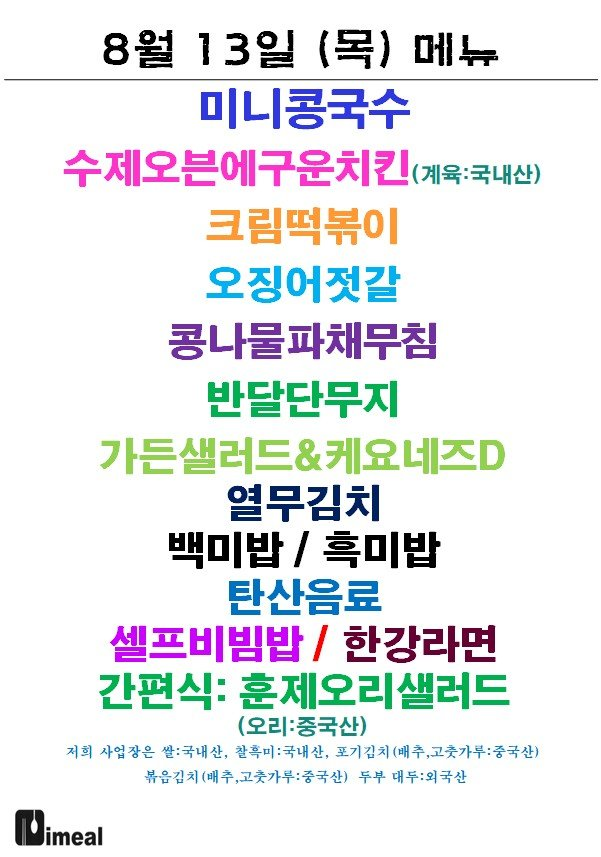
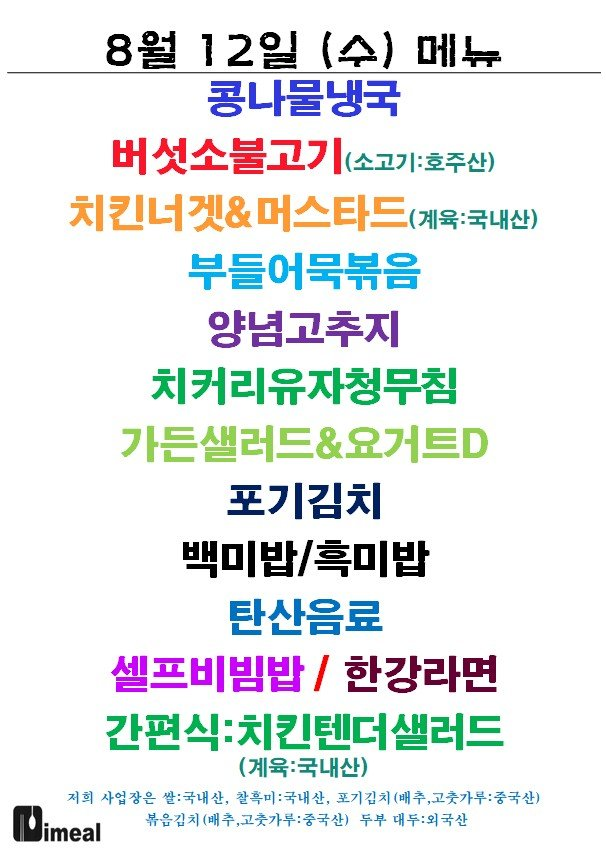
Update menu board assets

Changed region(s): [[0.0, 0.0303, 0.9884, 1.0]]

diff --git a/menu-today/index.html b/menu-today/index.html
@@ -209,7 +209,7 @@
 
     <section class="meta-bar">
       <div class="meta-card"><div class="meta-label">기준 날짜</div><div class="meta-value">2026년 8월 12일 수요일</div></div>
-      <div class="meta-card"><div class="meta-label">최종 가져온 시간</div><div class="meta-value">2026-08-12 10:03:27</div></div>
+      <div class="meta-card"><div class="meta-label">최종 가져온 시간</div><div class="meta-value">2026-08-12 10:13:21</div></div>
       <div class="meta-card"><div class="meta-label">확인 완료</div><div class="meta-value">9개 식당</div></div>
       <div class="meta-card"><div class="meta-label">준비중</div><div class="meta-value">3개 채널</div></div>
     </section>
@@ -225,7 +225,7 @@
             <div class="sub">현대테라타워 가산DK</div>
           </div>
         </div>
-        <div class="menu-inline-image"><img src="./images/imeal.png" alt="아이밀 식단 이미지"></div><div class="info-note">오늘 메뉴 미수집 상태입니다.</div>
+        <div class="menu-inline-image"><img src="./images/imeal.png" alt="아이밀 식단 이미지"></div><ul><li>콩나물냉국</li><li>부들어묵볶음</li><li>양념고추지</li><li>치커리유자청무침</li><li>가든샐러드</li><li>포기김치</li><li>백미밥 / 흑미밥</li><li>콩나울냉국</li><li>버섯소불고기</li><li>지커리유자청무침</li></ul>
       </article>
 
       <article class="restaurant-card">

diff --git a/guro-menu/index.html b/guro-menu/index.html
@@ -32,7 +32,7 @@
   </header>
   <section class="meta">
     <div><small>기준 날짜</small><strong>2026년 8월 12일 수요일</strong></div>
-    <div><small>최종 갱신</small><strong>2026-08-12 10:03:43</strong></div>
+    <div><small>최종 갱신</small><strong>2026-08-12 10:13:33</strong></div>
     <div><small>등록 식당</small><strong>5개</strong></div>
   </section>
   <div class="notice">공개 카카오 채널의 메뉴 이미지를 자동 수집하고 OCR로 정리합니다. 텍스트에 오타가 있을 수 있으니 식단 이미지를 함께 확인해 주세요.</div>
